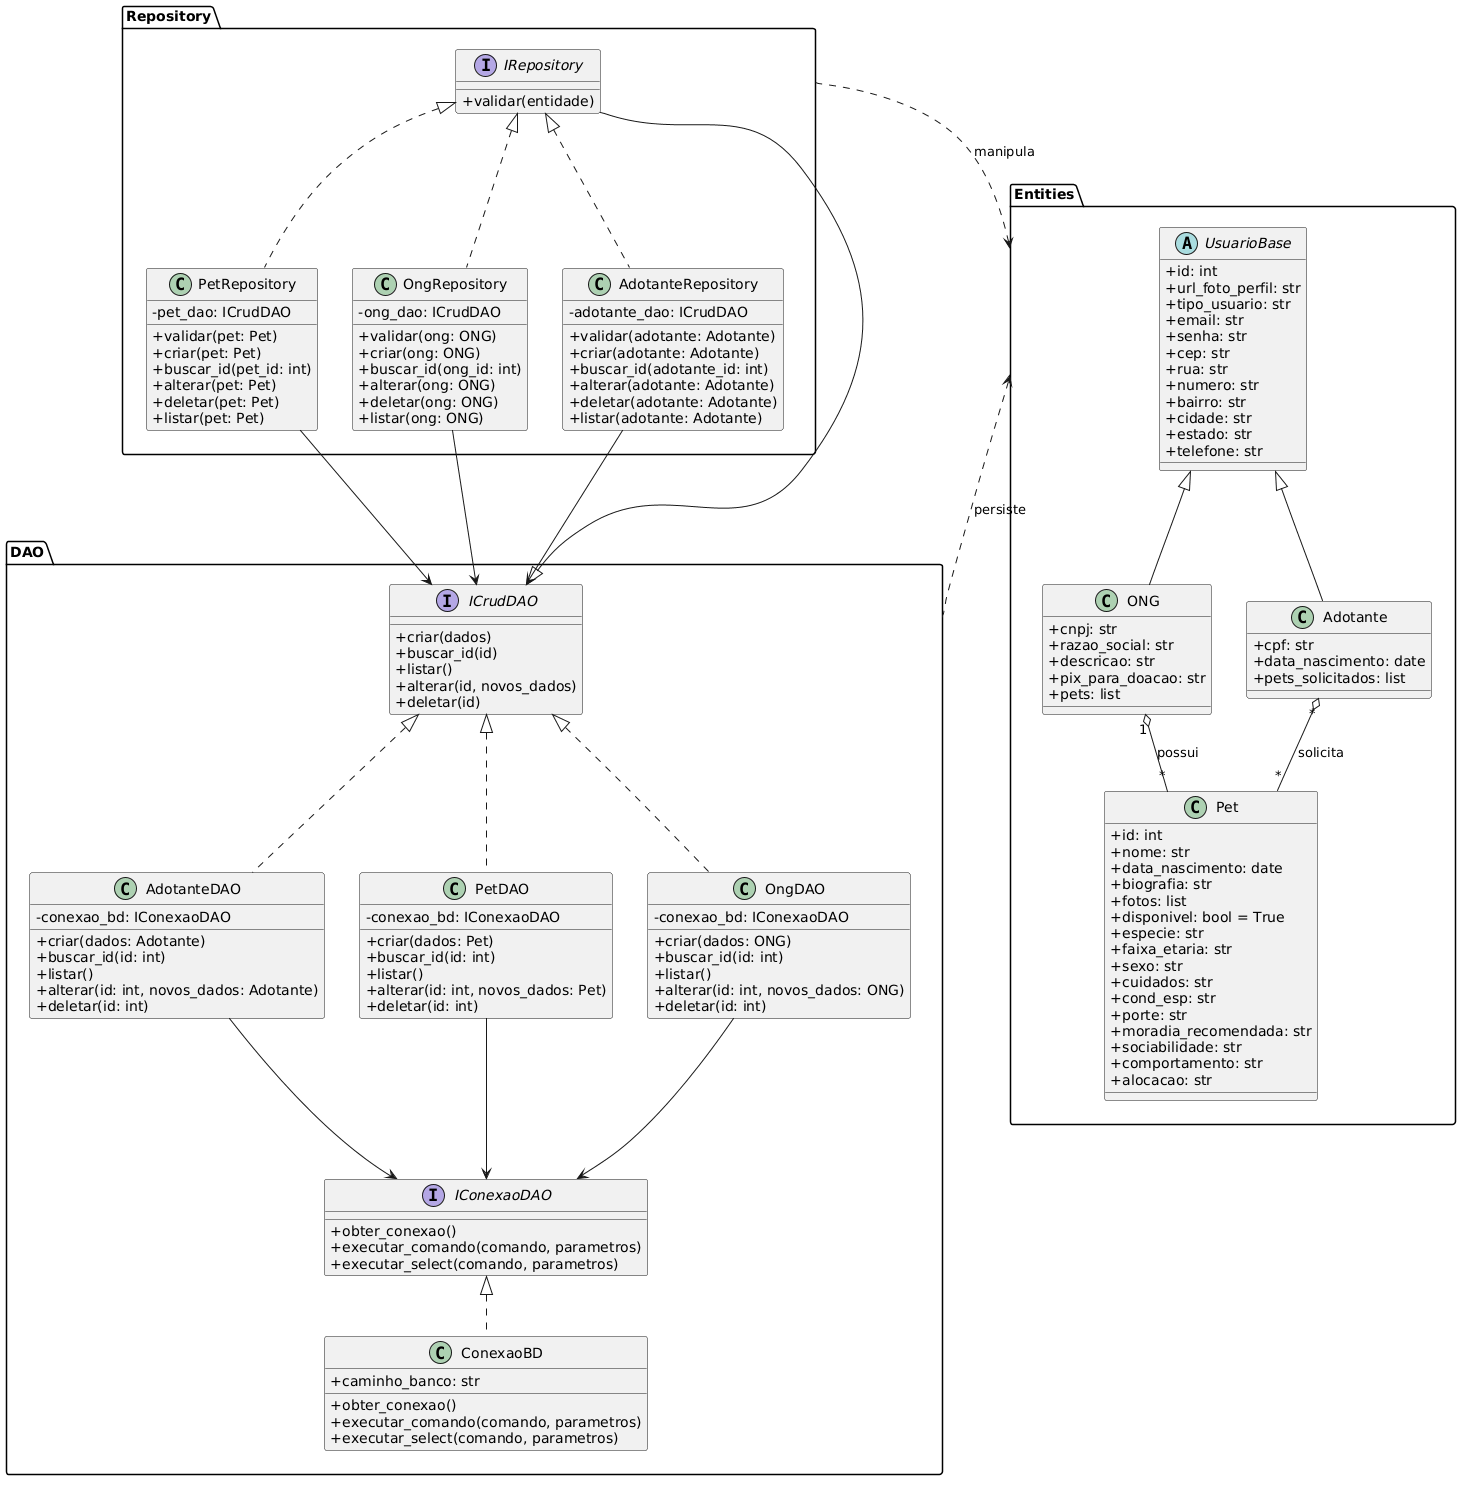
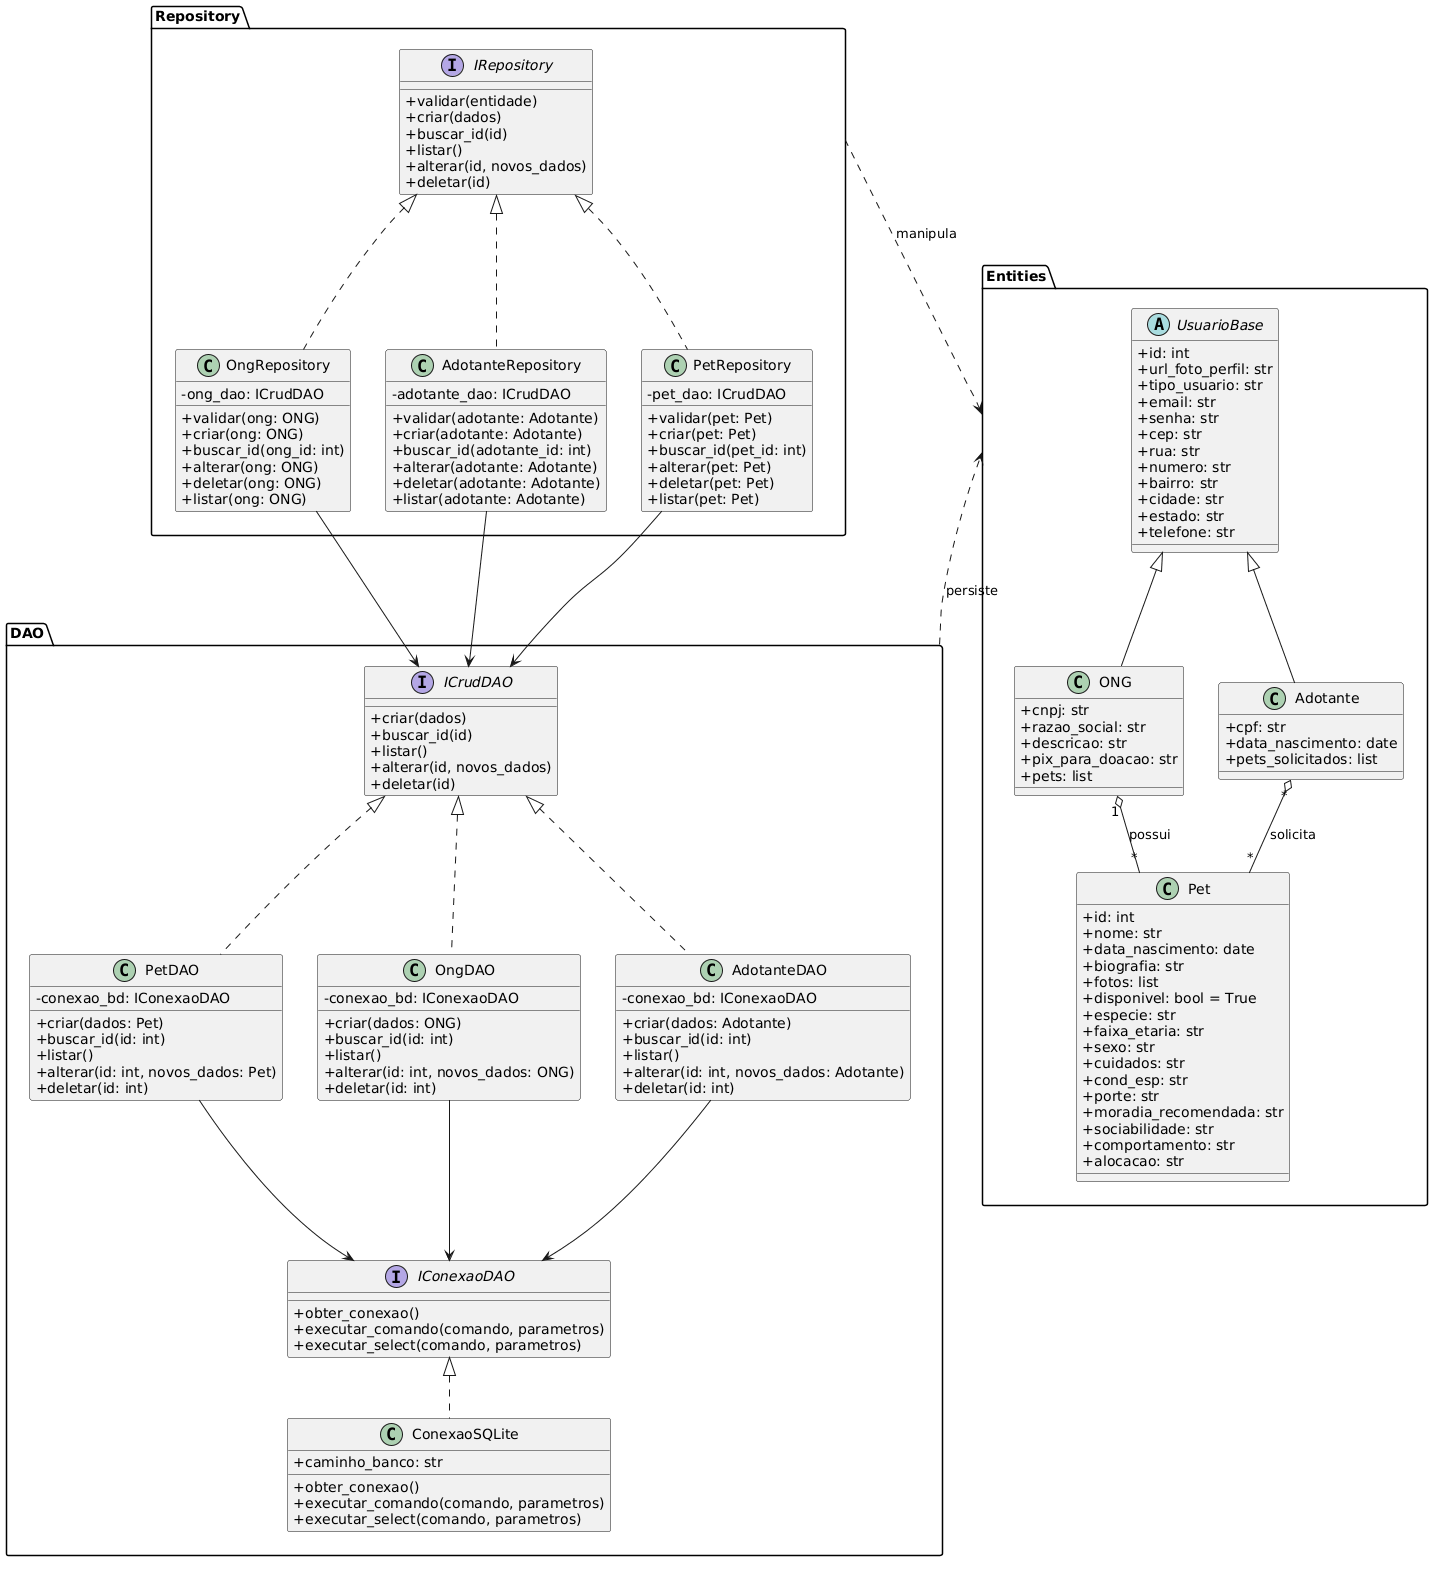
fix: corrige diagrama de dominio

diff --git a/docs/dominio.md b/docs/dominio.md
@@ -73,7 +73,7 @@ package "DAO" {
         +executar_select(comando, parametros)
     }
 
-    class ConexaoBD {
+    class ConexaoSQLite {
         +caminho_banco: str
         +obter_conexao()
         +executar_comando(comando, parametros)
@@ -115,7 +115,7 @@ package "DAO" {
         +deletar(id: int)
     }
 
-    IConexaoDAO <|.. ConexaoBD
+    IConexaoDAO <|.. ConexaoSQLite
     ICrudDAO <|.. PetDAO
     ICrudDAO <|.. OngDAO
     ICrudDAO <|.. AdotanteDAO
@@ -128,6 +128,11 @@ package "DAO" {
 package "Repository" {
     interface IRepository {
         +validar(entidade)
+        +criar(dados)
+        +buscar_id(id)
+        +listar()
+        +alterar(id, novos_dados)
+        +deletar(id)
     }
 
     class PetRepository {
@@ -160,7 +165,6 @@ package "Repository" {
         +listar(adotante: Adotante)
     }
 
-    ICrudDAO <|-- IRepository
     IRepository <|.. PetRepository
     IRepository <|.. OngRepository
     IRepository <|.. AdotanteRepository
